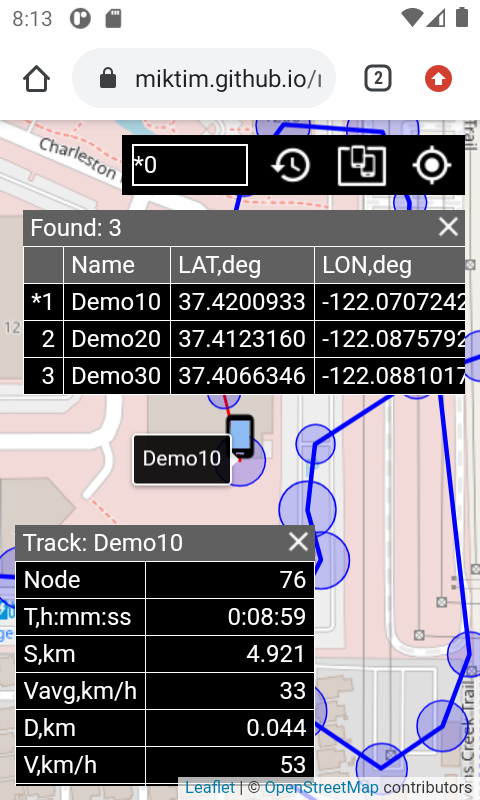
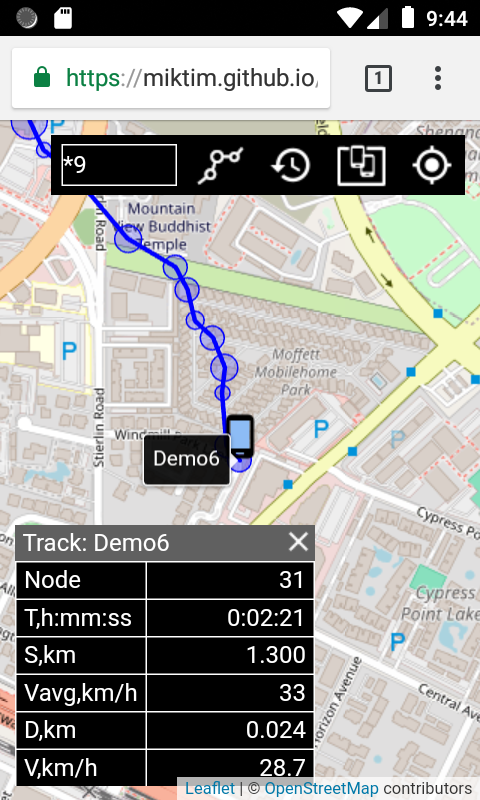
1.4.8

diff --git a/README.md b/README.md
@@ -50,6 +50,7 @@ The objects are represented by an icon and a circle with a radius equal to the a
   
 Controls at the screen top right:
 - field to search objects by name. You can use wildcards in the file search style: ? - any single character, * - any characters. Tap the name in the list to locate the object.  
+- button for copying a track in GeoJSON format to the clipboard.   
 - button to display the message history. The message in the bottom right of the screen is visible for a few seconds. The next message overlaps the previous one.  
 - button to fit all objects into the screen.  
 - button for centering the map according to your own location.  
